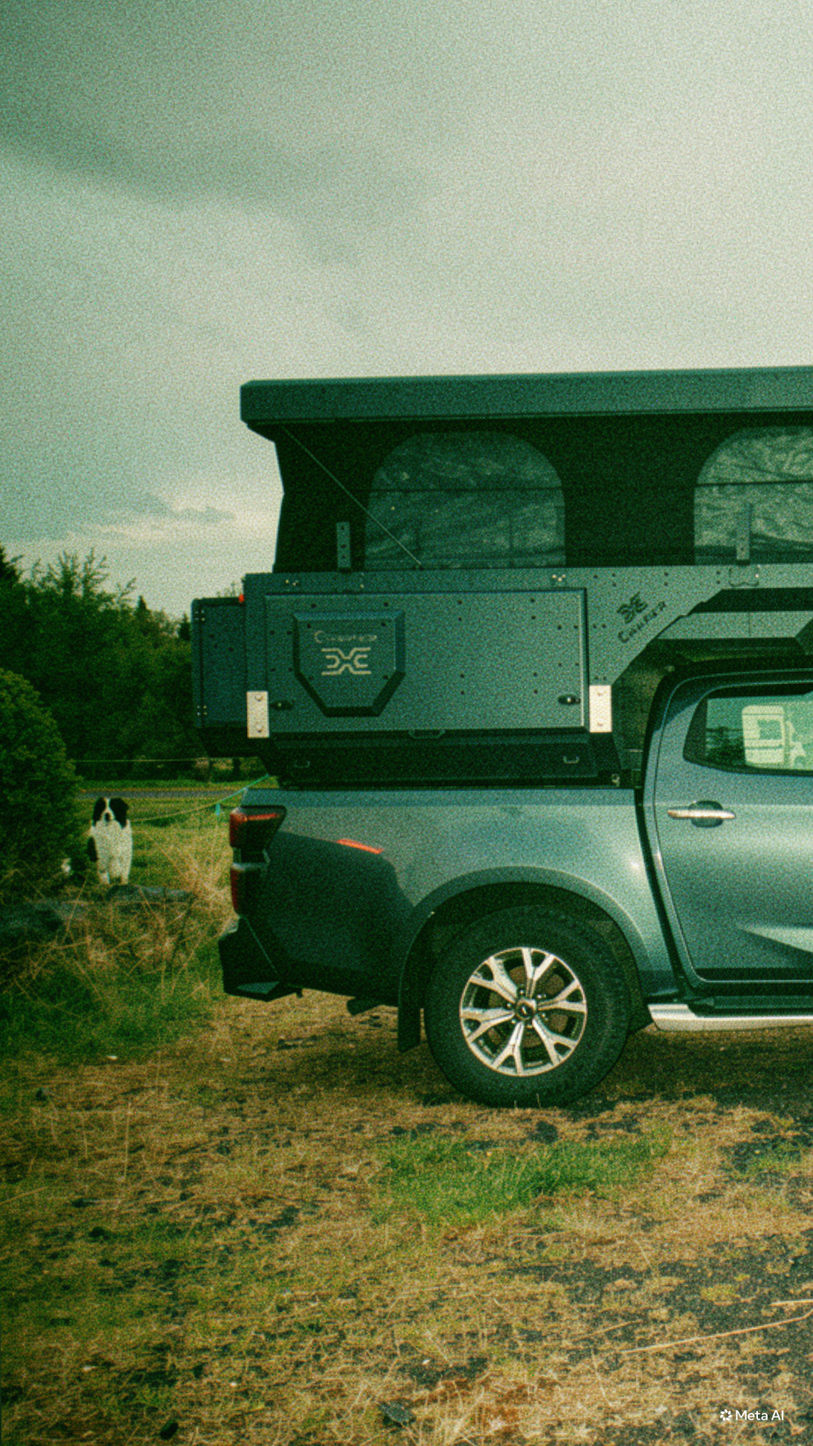
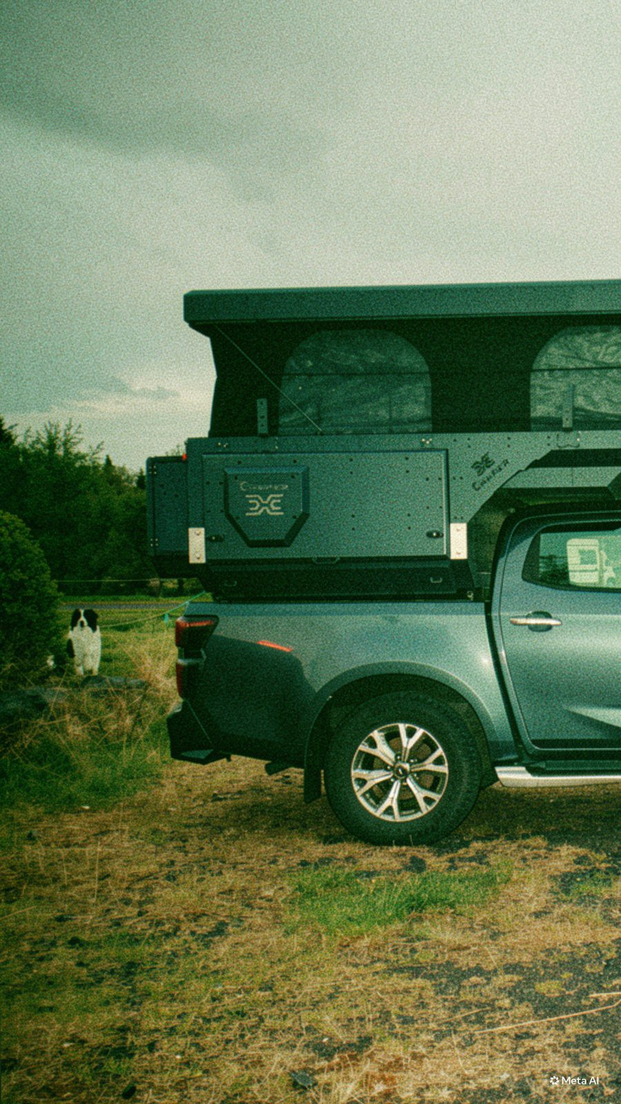
Compress gallery photos for faster loading
Photos were straight-from-phone originals (up to 4284x5712, 6.8MB
each) displayed in small grid tiles. Resized to a 1600px max
dimension and recompressed (JPEG q82; hovory.png palette-quantized
to keep its transparency). Total assets/img/ dropped from ~27MB to
~2.6MB. Converted sunset.png and rande.png to .jpg in the process
(flat photos, no transparency) and updated their references.

Claude-Session: https://claude.ai/code/session_01Y8fQEUNtuSNuJDsq2jVbmk

diff --git a/index.html b/index.html
@@ -119,7 +119,7 @@
         <figcaption class="gallery__caption">Naše první doupě lásky</figcaption>
       </figure>
       <figure class="gallery__item" style="--i:1">
-        <img class="gallery__media" src="assets/img/sunset.png" alt="">
+        <img class="gallery__media" src="assets/img/sunset.jpg" alt="">
         <figcaption class="gallery__caption">Náš první společný sunset</figcaption>
       </figure>
       <figure class="gallery__item" style="--i:2">
@@ -147,7 +147,7 @@
         <figcaption class="gallery__caption">Tvoje místo (navždy)</figcaption>
       </figure>
       <figure class="gallery__item" style="--i:8">
-        <img class="gallery__media" src="assets/img/rande.png" alt="">
+        <img class="gallery__media" src="assets/img/rande.jpg" alt="">
         <figcaption class="gallery__caption">Nejlepší rande ever?</figcaption>
       </figure>
       <figure class="gallery__item" style="--i:9">
